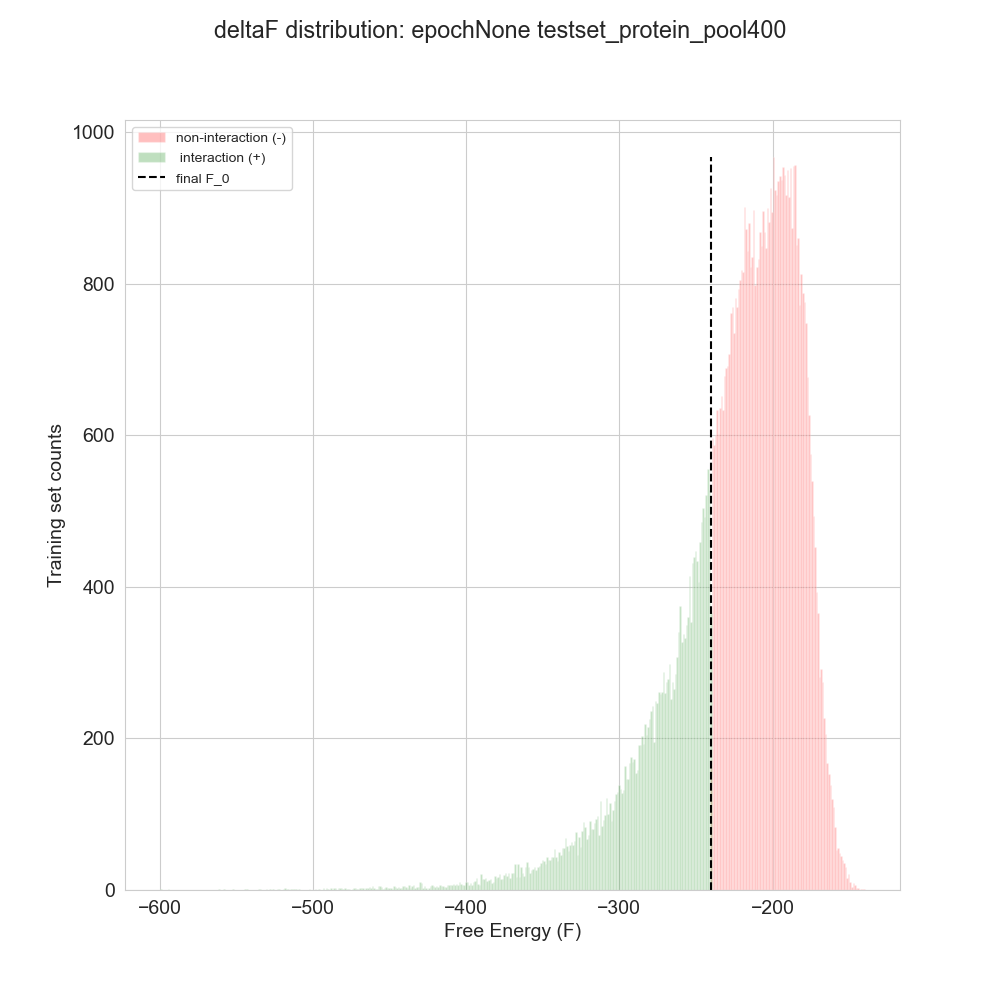
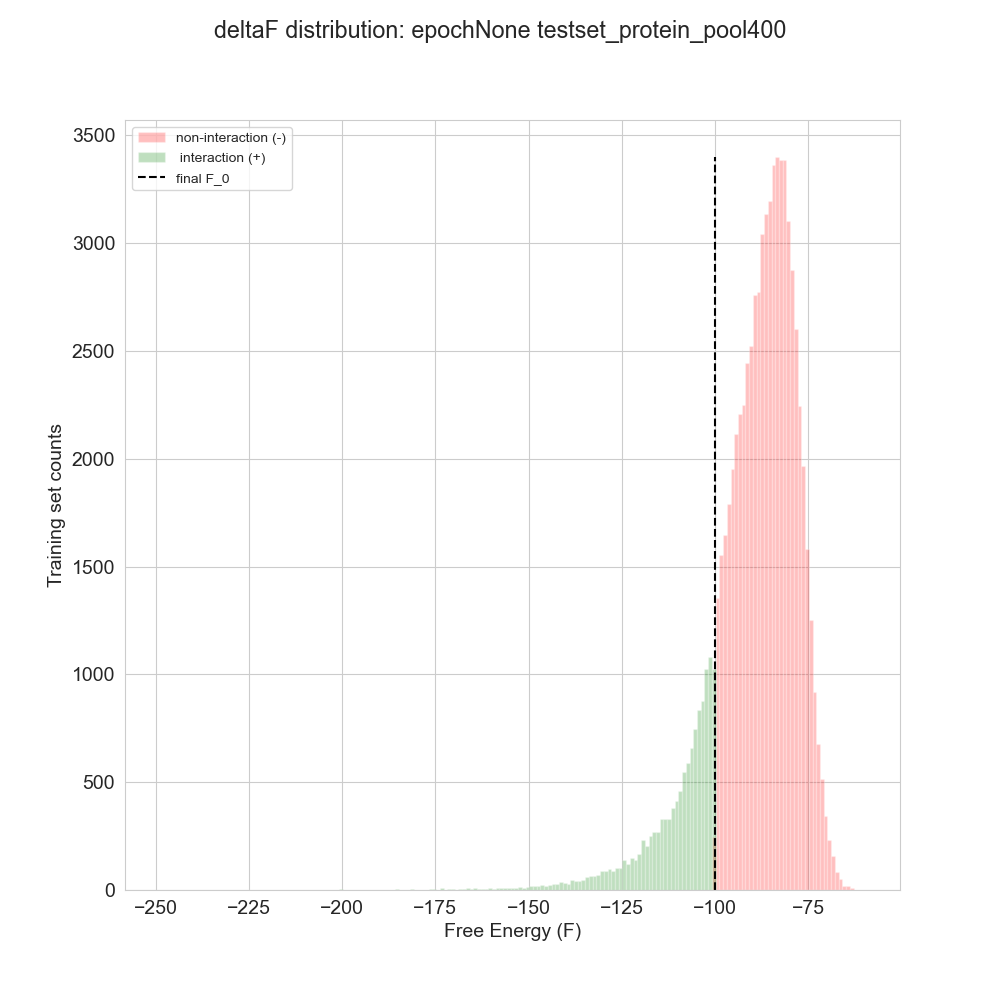
fft_score now an energy, scoring function signs changed and learned "a" coeff init -1 as needed

diff --git a/Models/model_docking.py b/Models/model_docking.py
@@ -21,9 +21,9 @@ class Docking(nn.Module):
         super(Docking, self).__init__()
         self.debug = debug
         self.plot_freq = plot_freq
-        self.boundW = nn.Parameter(torch.ones(1, requires_grad=True))
-        self.crosstermW = nn.Parameter(torch.ones(1, requires_grad=True))
         self.bulkW = nn.Parameter(torch.ones(1, requires_grad=True))
+        self.crosstermW = nn.Parameter(-torch.ones(1, requires_grad=True))
+        self.boundW = nn.Parameter(-torch.ones(1, requires_grad=True))
 
         self.dockingFFT = dockingFFT
 
@@ -79,16 +79,16 @@ class Docking(nn.Module):
             rec_feat,
             lig_feat,
             angle,
-            weight_bound=self.boundW,
+            weight_bulk=self.bulkW,
             weight_crossterm=self.crosstermW,
-            weight_bulk=self.bulkW
+            weight_bound=self.boundW,
         )
 
         #### Plot shape features
         if plotting and not training:
             if plot_count % self.plot_freq == 0:
                 with torch.no_grad():
-                    scoring_weights = (self.boundW, self.crosstermW, self.bulkW)
+                    scoring_weights = (self.bulkW, self.crosstermW, self.boundW)
                     UtilityFunctions().plot_features(rec_feat, lig_feat, receptor, ligand, scoring_weights, plot_count, stream_name)
                     # import matplotlib.pyplot as plt
                     # plt.show()

diff --git a/Models/TrainerIP.py b/Models/TrainerIP.py
@@ -193,8 +193,8 @@ class TrainerIP:
                 lowest_energy, pred_rot, pred_txy, fft_score = self.model(receptor, ligand, plot_count=plot_count,
                                                                           stream_name=stream_name, plotting=self.plotting,
                                                                           training=False)
-                print('gt_rot', 'pred_rot')
-                print(gt_rot, pred_rot)
+                # print('gt_rot', 'pred_rot')
+                # print(gt_rot, pred_rot)
 
             else:
                 ## for evaluation, sample buffer is necessary for Monte Carlo multi epoch eval
@@ -234,7 +234,7 @@ class TrainerIP:
         if training:
             #### Loss functions
             CE_loss = torch.nn.CrossEntropyLoss()
-            loss = CE_loss(fft_score.flatten().unsqueeze(0), target_flatindex.unsqueeze(0))
+            loss = CE_loss(-fft_score.flatten().unsqueeze(0), target_flatindex.unsqueeze(0))
             self.model.zero_grad()
             loss.backward()
             self.optimizer.step()

diff --git a/Models/Sampling/train_brutesimplified_IP.py b/Models/Sampling/train_brutesimplified_IP.py
@@ -39,7 +39,10 @@ if __name__ == '__main__':
 
     # experiment = 'BS_lr-2_10ep_check_NoNormPool'
     # experiment = 'BS_lr-2_10ep_latest_400poolcheck'
-    experiment = 'BS_lr-2_30ep_latest_400poolcheck'
+    # experiment = 'BS_lr-2_30ep_latest_400poolcheck'
+
+    # experiment = 'BS_negativeEnergy'
+    experiment = 'BS_negativeEnergy_nohardcodedsigns'
 
     ######################
     train_epochs = 30
@@ -66,9 +69,9 @@ if __name__ == '__main__':
     #     resume_training=True, resume_epoch=train_epochs)
 
     ## Brute force evaluation and plotting
-    plotting = True
-    start = 13
-    stop = 14
+    plotting = False
+    start = 1
+    stop = 30
     eval_angles = 360
     evalFFT = TorchDockingFFT(padded_dim=padded_dim, num_angles=eval_angles)
     eval_model = SamplingModel(evalFFT, IP=True).to(device=0)

diff --git a/Models/model_sampling.py b/Models/model_sampling.py
@@ -60,12 +60,12 @@ class SamplingDocker(nn.Module):
                 if plotting and self.num_angles == 360 and plot_count % 10 == 0:
                     UtilityFunctions().plot_rotation_energysurface(fft_score, pred_txy, self.num_angles, stream_name,
                                                                    plot_count)
-                    import matplotlib.pyplot as plt
-                    plt.show()
+                    # import matplotlib.pyplot as plt
+                    # plt.show()
             else:
                 best_score = fft_score[pred_txy[0], pred_txy[1]]
 
-        lowest_energy = -best_score
+        lowest_energy = best_score
 
         return lowest_energy, pred_rot, pred_txy, fft_score
 

diff --git a/Utility/TorchDockingFFT.py b/Utility/TorchDockingFFT.py
@@ -178,7 +178,9 @@ class TorchDockingFFT:
         ## cross-term score maximizing
         # score = weight_bound * trans_bound + weight_crossterm * (trans_bulk_bound + trans_bound_bulk) - weight_bulk * trans_bulk
 
-        score = weight_bulk * trans_bulk + weight_crossterm * (trans_bulk_bound + trans_bound_bulk) + weight_bound * trans_bound
+        # score = (weight_bulk * trans_bulk) - weight_crossterm * (trans_bulk_bound + trans_bound_bulk) - (weight_bound * trans_bound)
+
+        score = (weight_bulk * trans_bulk) + weight_crossterm * (trans_bulk_bound + trans_bound_bulk) + (weight_bound * trans_bound)
 
         if self.swap_plot_quadrants:
             return self.UtilityFunctions.swap_quadrants(score)

diff --git a/DatasetGeneration/DatasetGenerator.py b/DatasetGeneration/DatasetGenerator.py
@@ -101,8 +101,8 @@ class DatasetGenerator:
         self.FFT = TorchDockingFFT(padded_dim=padded_dim, num_angles=num_angles)
         self.UtilityFuncs = UtilityFunctions()
         ## number of unique protein shapes to generate in pool
-        self.trainpool_num_proteins = 50
-        self.testpool_num_proteins = 50
+        self.trainpool_num_proteins = 400
+        self.testpool_num_proteins = 400
 
         ## proportion of training set kept for validation
         self.validation_set_cutoff = 0.8
